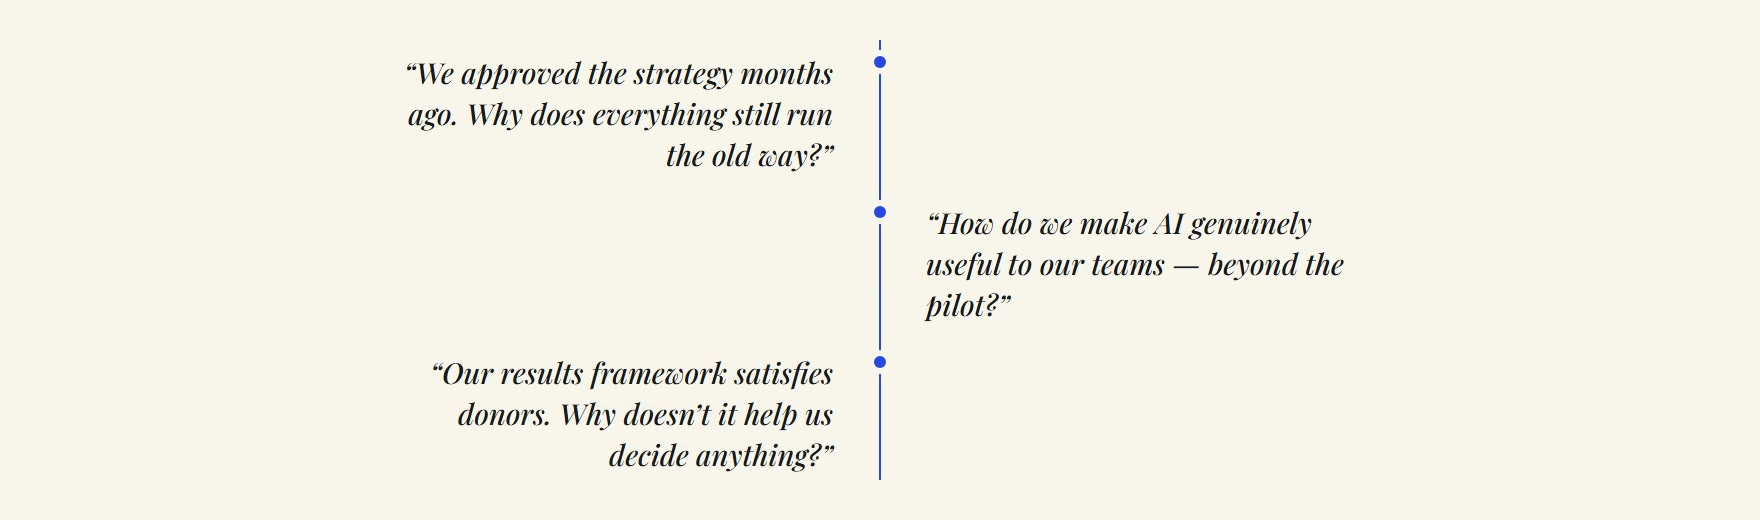
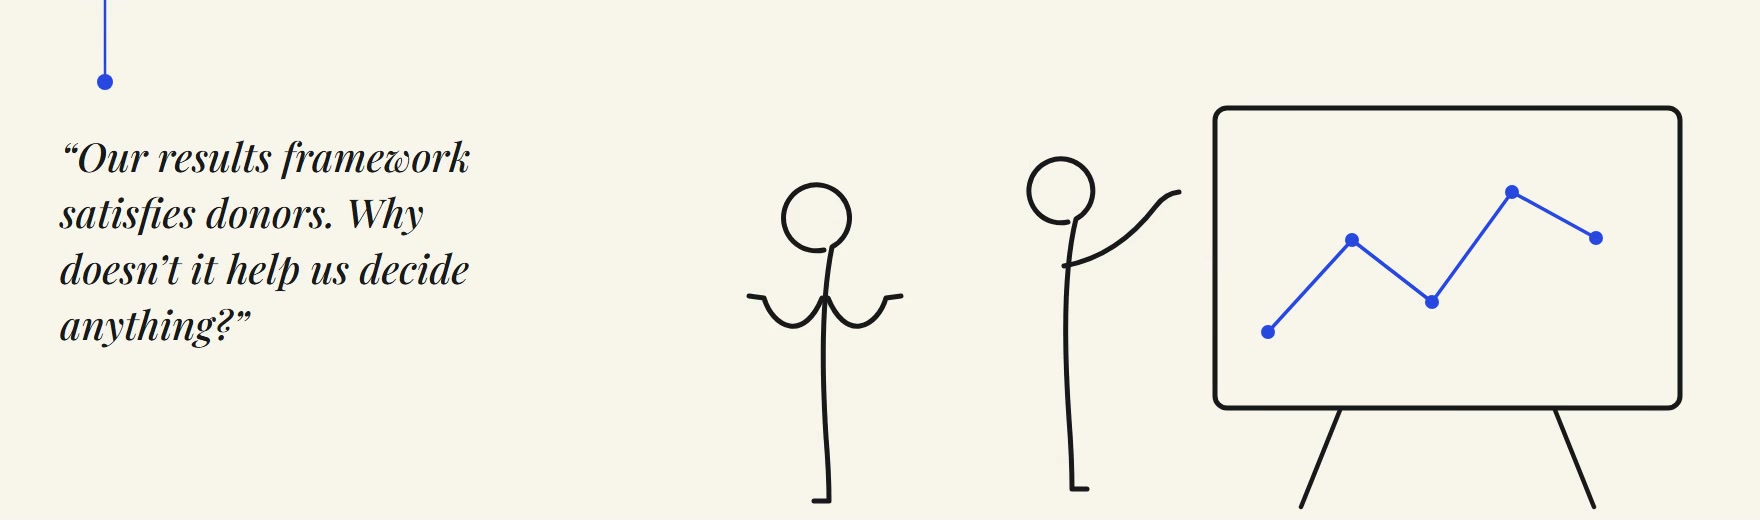
v5: line-art hero film (pen-drawn scenes + sticky-board footage) + #digital-ai anchor + service video v4 stat
- Hero: new assets/hero-film.mp4 — 3 pen-drawn line-art scenes (one question each,
  Steinberg-minimal single-stroke figures) interleaved with dda2 sticky-board footage,
  17.5s silent loop 1760x520; loop attr added to embed; new poster (scene 3 hold).
- Services: svc-card 02 anchor id="digital-ai" for outreach deep links.
- assets/service-digital-ai.mp4 -> FINAL v4 (70% stat overlay).

diff --git a/deploy/index.html b/deploy/index.html
@@ -189,6 +189,7 @@
   .about-film .vcap{text-align:center;color:var(--grey-soft);font-size:13.5px;letter-spacing:.02em;margin-top:14px}
   .about-film .vcap em{font-family:var(--serif);font-style:italic;color:var(--grey)}
   .about-film .vcredit{text-align:center;color:var(--grey-soft);font-size:10.5px;letter-spacing:.06em;margin-top:5px;opacity:.75}
+  #digital-ai{scroll-margin-top:96px}
   .svc-film{margin-top:16px}
   .svc-film video{width:100%;aspect-ratio:16/9;display:block;border-radius:12px;border:0.5px solid var(--line);background:#0E0F12;box-shadow:0 14px 40px -26px rgba(23,24,27,.35)}
   .svc-film .vcredit{color:var(--grey-soft);font-size:10.5px;letter-spacing:.06em;margin-top:6px;opacity:.75}
@@ -293,7 +294,7 @@
       <div class="qs">
         <span class="qline" aria-hidden="true"></span><span class="qpen" aria-hidden="true"></span>
         <div class="qfilm">
-          <video id="qfilmVid" muted playsinline preload="auto" poster="assets/hero-film-poster.jpg" aria-label="Three questions: We approved the strategy months ago — why does everything still run the old way? How do we make AI genuinely useful to our teams, beyond the pilot? Our results framework satisfies donors — why doesn't it help us decide anything?">
+          <video id="qfilmVid" muted loop playsinline preload="auto" poster="assets/hero-film-poster.jpg" aria-label="Three questions: We approved the strategy months ago — why does everything still run the old way? How do we make AI genuinely useful to our teams, beyond the pilot? Our results framework satisfies donors — why doesn't it help us decide anything?">
             <source src="assets/hero-film.mp4" type="video/mp4">
           </video>
         </div>
@@ -358,7 +359,7 @@
           <h3>Strategy that delivers<span class="flag">Flagship</span></h3>
           <p>From strategy design through to delivery — the governance, decisions, results frameworks, and discipline that turn ambition into what changes on Monday morning.</p>
         </div>
-        <div class="svc-card right">
+        <div class="svc-card right" id="digital-ai">
           <div class="svc-num">02</div>
           <h3>Digital &amp; AI transformation</h3>
           <p>Responsible digital and AI that earns its place — governance first, starting with data, so the tools make work easier.</p>

diff --git a/index.html b/index.html
@@ -189,6 +189,7 @@
   .about-film .vcap{text-align:center;color:var(--grey-soft);font-size:13.5px;letter-spacing:.02em;margin-top:14px}
   .about-film .vcap em{font-family:var(--serif);font-style:italic;color:var(--grey)}
   .about-film .vcredit{text-align:center;color:var(--grey-soft);font-size:10.5px;letter-spacing:.06em;margin-top:5px;opacity:.75}
+  #digital-ai{scroll-margin-top:96px}
   .svc-film{margin-top:16px}
   .svc-film video{width:100%;aspect-ratio:16/9;display:block;border-radius:12px;border:0.5px solid var(--line);background:#0E0F12;box-shadow:0 14px 40px -26px rgba(23,24,27,.35)}
   .svc-film .vcredit{color:var(--grey-soft);font-size:10.5px;letter-spacing:.06em;margin-top:6px;opacity:.75}
@@ -293,7 +294,7 @@
       <div class="qs">
         <span class="qline" aria-hidden="true"></span><span class="qpen" aria-hidden="true"></span>
         <div class="qfilm">
-          <video id="qfilmVid" muted playsinline preload="auto" poster="assets/hero-film-poster.jpg" aria-label="Three questions: We approved the strategy months ago — why does everything still run the old way? How do we make AI genuinely useful to our teams, beyond the pilot? Our results framework satisfies donors — why doesn't it help us decide anything?">
+          <video id="qfilmVid" muted loop playsinline preload="auto" poster="assets/hero-film-poster.jpg" aria-label="Three questions: We approved the strategy months ago — why does everything still run the old way? How do we make AI genuinely useful to our teams, beyond the pilot? Our results framework satisfies donors — why doesn't it help us decide anything?">
             <source src="assets/hero-film.mp4" type="video/mp4">
           </video>
         </div>
@@ -358,7 +359,7 @@
           <h3>Strategy that delivers<span class="flag">Flagship</span></h3>
           <p>From strategy design through to delivery — the governance, decisions, results frameworks, and discipline that turn ambition into what changes on Monday morning.</p>
         </div>
-        <div class="svc-card right">
+        <div class="svc-card right" id="digital-ai">
           <div class="svc-num">02</div>
           <h3>Digital &amp; AI transformation</h3>
           <p>Responsible digital and AI that earns its place — governance first, starting with data, so the tools make work easier.</p>